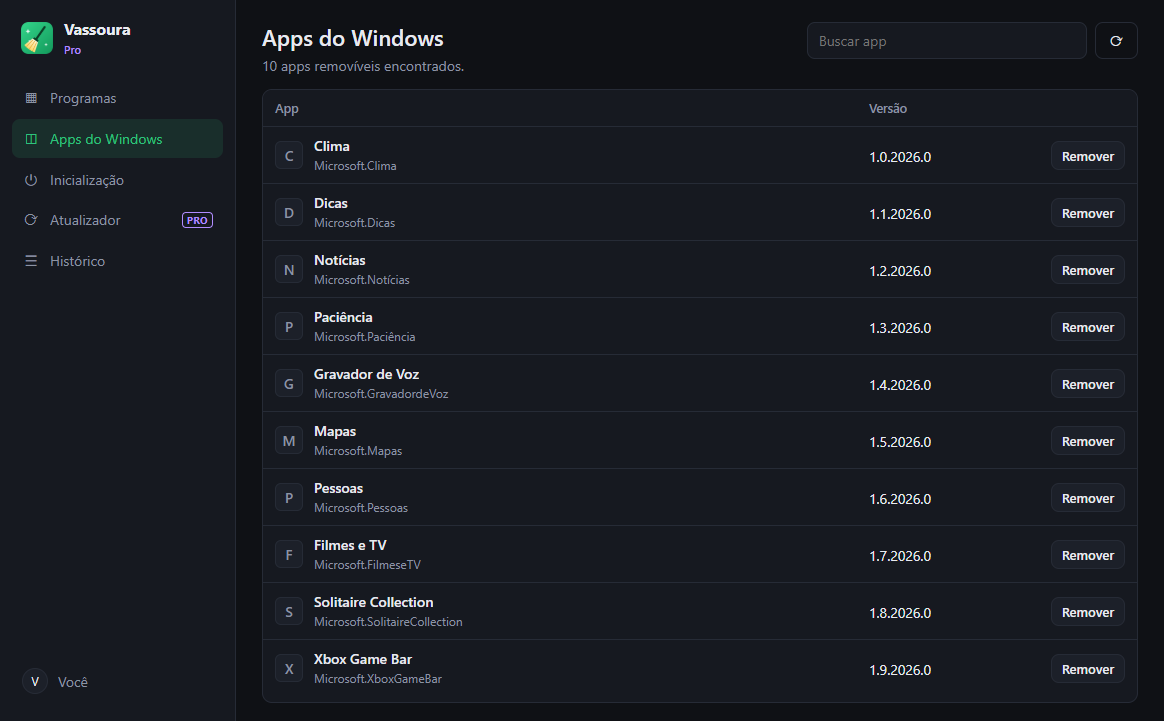
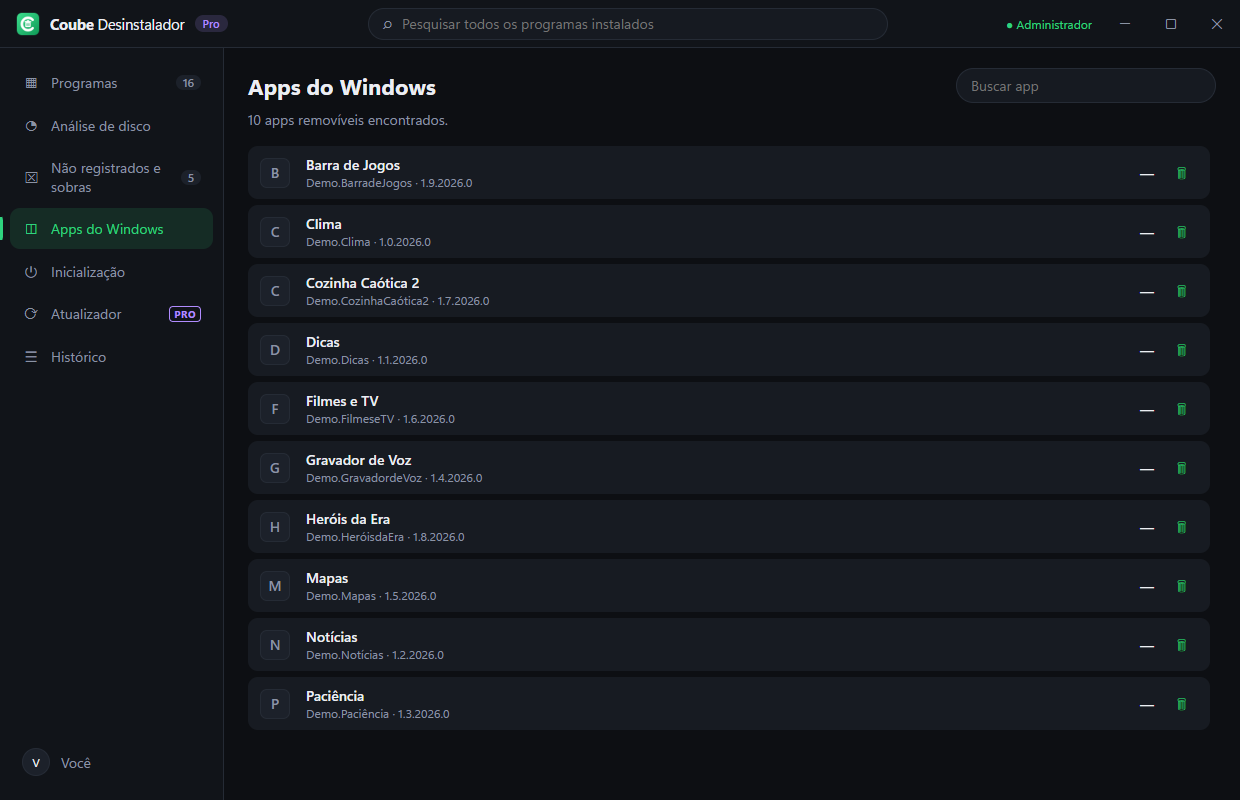
Coube Desinstalador 2.0: novo nome, varredura completa e análise de disco

diff --git a/README.md b/README.md
@@ -1,66 +1,68 @@
-<p align="center"><img src="media/icon.png" width="96" alt="Vassoura"></p>
+<p align="center"><img src="media/icon.png" width="96" alt="Coube Desinstalador"></p>
 
-<h1 align="center">Vassoura</h1>
+<h1 align="center">Coube Desinstalador</h1>
 <p align="center"><b>Desinstalou? Então some de verdade.</b><br>
-Desinstalador para Windows que remove o programa e varre tudo o que ele deixa para trás.</p>
+Vasculha o computador inteiro, mostra o tamanho real de cada programa e remove tudo o que eles deixam para trás.<br>
+Primeiro app da <b>Coube Solutions</b>.</p>
 
 <p align="center">
-  <a href="https://vassoura-app.netlify.app/#baixar"><b>⬇ Baixar grátis</b></a> ·
-  <a href="https://vassoura-app.netlify.app/#precos">Planos</a> ·
-  <a href="https://github.com/srlorenzos/vassoura/issues/new/choose">Suporte</a> ·
+  <a href="https://github.com/srlorenzos/coube-desinstalador/releases/latest"><b>⬇ Baixar grátis</b></a> ·
+  <a href="https://coube-solutions.netlify.app/#precos">Planos</a> ·
+  <a href="https://github.com/srlorenzos/coube-desinstalador/issues/new/choose">Suporte</a> ·
   <a href="CHANGELOG.md">Novidades</a>
 </p>
 
 ![Tela principal](media/programs.png)
 
-> Esta é a página pública do Vassoura: demonstração, novidades e suporte. O código-fonte do app é privado.
+> Esta é a página pública do Coube Desinstalador: demonstração, novidades e suporte. O código-fonte é privado. Antes ele se chamava **Vassoura**.
 
 ## O que ele faz
 
 | | |
 |---|---|
+| 🔎 **Varredura completa** | Encontra programas do Windows, Steam, Epic, Xbox e da Store, mede o tamanho real de cada pasta e mostra o último uso. |
+| ◔ **Análise de disco** | Para onde foi o espaço de cada unidade: programas, jogos, usuários, Windows e arquivos do sistema, pasta por pasta. |
 | 🧹 **Limpeza de sobras** | Depois de desinstalar, procura pastas, atalhos e registros que ficaram para trás e mostra tudo antes de apagar. |
-| 🛟 **Seguro por padrão** | Ponto de restauração antes de cada remoção, arquivos vão para a Lixeira e o registro ganha backup `.reg`. |
-| 📦 **Desinstalação em lote** `PRO` | Marque vários programas e remova todos de uma vez, em modo silencioso quando possível. |
-| 💥 **Remoção forçada** `PRO` | Para programas sem desinstalador ou com desinstalador quebrado. |
-| ⟳ **Atualizador** `PRO` | Encontra versões novas dos seus programas e atualiza com um clique. |
-| ⚡ **Inicialização e apps** | Desliga o que abre com o Windows e remove apps da Microsoft Store que vieram de fábrica. |
+| ⌧ **Não registrados e sobras antigas** | Programas copiados sem instalador e dados de programas que já foram removidos. |
+| 🛟 **Seguro por padrão** | Ponto de restauração antes, arquivos vão para a Lixeira e o registro ganha backup `.reg`. |
+| 📦 **Lote, forçada e atualizador** `PRO` | Remova vários de uma vez, force os teimosos e mantenha tudo atualizado. |
+
+### Análise de disco
+![Análise de disco](media/disk.png)
 
 ### Sobras encontradas depois de desinstalar
 ![Sobras](media/leftovers.png)
 
-### Desinstalação em lote
-![Lote](media/batch.png)
+### Não registrados e sobras antigas
+![Não registrados](media/loose.png)
 
-### Atualizador, inicialização e apps do Windows
 <p>
-  <img src="media/updates.png" width="32%" alt="Atualizador">
-  <img src="media/startup.png" width="32%" alt="Inicialização">
-  <img src="media/apps.png" width="32%" alt="Apps do Windows">
+  <img src="media/scan.png" width="49%" alt="Varredura completa">
+  <img src="media/updates.png" width="49%" alt="Atualizador">
 </p>
 
 *As capturas usam o modo demonstração, com programas fictícios.*
 
 ## Planos
 
-| | Grátis | Pro Anual | Pro Vitalício |
+| | Grátis | Coube Pro Anual | Coube Pro Vitalício |
 |---|:-:|:-:|:-:|
 | Preço | R$ 0 | R$ 39,90/ano | R$ 89,90 uma vez |
-| Desinstalar + varredura básica | ✓ | ✓ | ✓ |
-| Varredura profunda (AppData, ProgramData, registro) | – | ✓ | ✓ |
-| Desinstalação em lote | – | ✓ | ✓ |
-| Remoção forçada | – | ✓ | ✓ |
+| Desinstalar + sobras básicas | ✓ | ✓ | ✓ |
+| Varredura completa e análise de disco | ✓ | ✓ | ✓ |
+| Sobras profundas (AppData, ProgramData, registro) | – | ✓ | ✓ |
+| Desinstalação em lote e remoção forçada | – | ✓ | ✓ |
+| Remover não registrados e sobras antigas | – | ✓ | ✓ |
 | Atualizador de programas | – | ✓ | ✓ |
+| Todos os próximos apps Coube | – | ✓ | ✓ |
 | Computadores | ilimitado | 3 | 5 |
-
-Compre em **[vassoura-app.netlify.app](https://vassoura-app.netlify.app/#precos)**, entre no app com o mesmo e-mail e clique em *Atualizar licença*.
 
 ## Requisitos
 
-Windows 10 ou 11, 64 bits. O app pede permissão de administrador porque precisa disso para remover programas instalados para todos os usuários.
+Windows 10 ou 11, 64 bits. O app pede permissão de administrador, porque precisa dela para vasculhar o disco inteiro e remover programas instalados para todos os usuários.
 
-Na primeira execução, o Windows pode mostrar o aviso *"O Windows protegeu o computador"*. Clique em **Mais informações › Executar assim mesmo**.
+Na primeira execução, o Windows pode mostrar *"O Windows protegeu o computador"*. Clique em **Mais informações › Executar assim mesmo**.
 
 ## Suporte
 
-Achou um problema ou tem uma ideia? [Abra uma issue](https://github.com/srlorenzos/vassoura/issues/new/choose).
+Achou um problema ou tem uma ideia? [Abra uma issue](https://github.com/srlorenzos/coube-desinstalador/issues/new/choose).

diff --git a/CHANGELOG.md b/CHANGELOG.md
@@ -1,5 +1,15 @@
 # Novidades
 
+## v2.0.0 (9 de outubro de 2026): agora é Coube Desinstalador
+
+- **Novo nome:** o Vassoura virou Coube Desinstalador, o primeiro app da Coube Solutions. A sua conta continua valendo.
+- **Varredura completa:** encontra programas do Windows, de outros usuários, Steam, Epic, Xbox e Store, e mede o tamanho real de cada pasta. Antes o app confiava no tamanho informado pelo instalador, que muitas vezes vem vazio.
+- **Análise de disco:** mostra para onde foi o espaço de cada unidade, por categoria e pasta por pasta.
+- **Não registrados e sobras antigas:** programas portáteis e dados de programas já removidos.
+- **Último uso de cada programa** e as abas Grandes, Recentes, Pouco usados e Jogos.
+- **Interface nova:** barra de busca no topo, painel com o uso do disco e botão de Varredura.
+- O app pede administrador ao abrir, para enxergar o computador inteiro.
+
 ## v1.0.0 (9 de outubro de 2026)
 
 Primeira versão pública.
